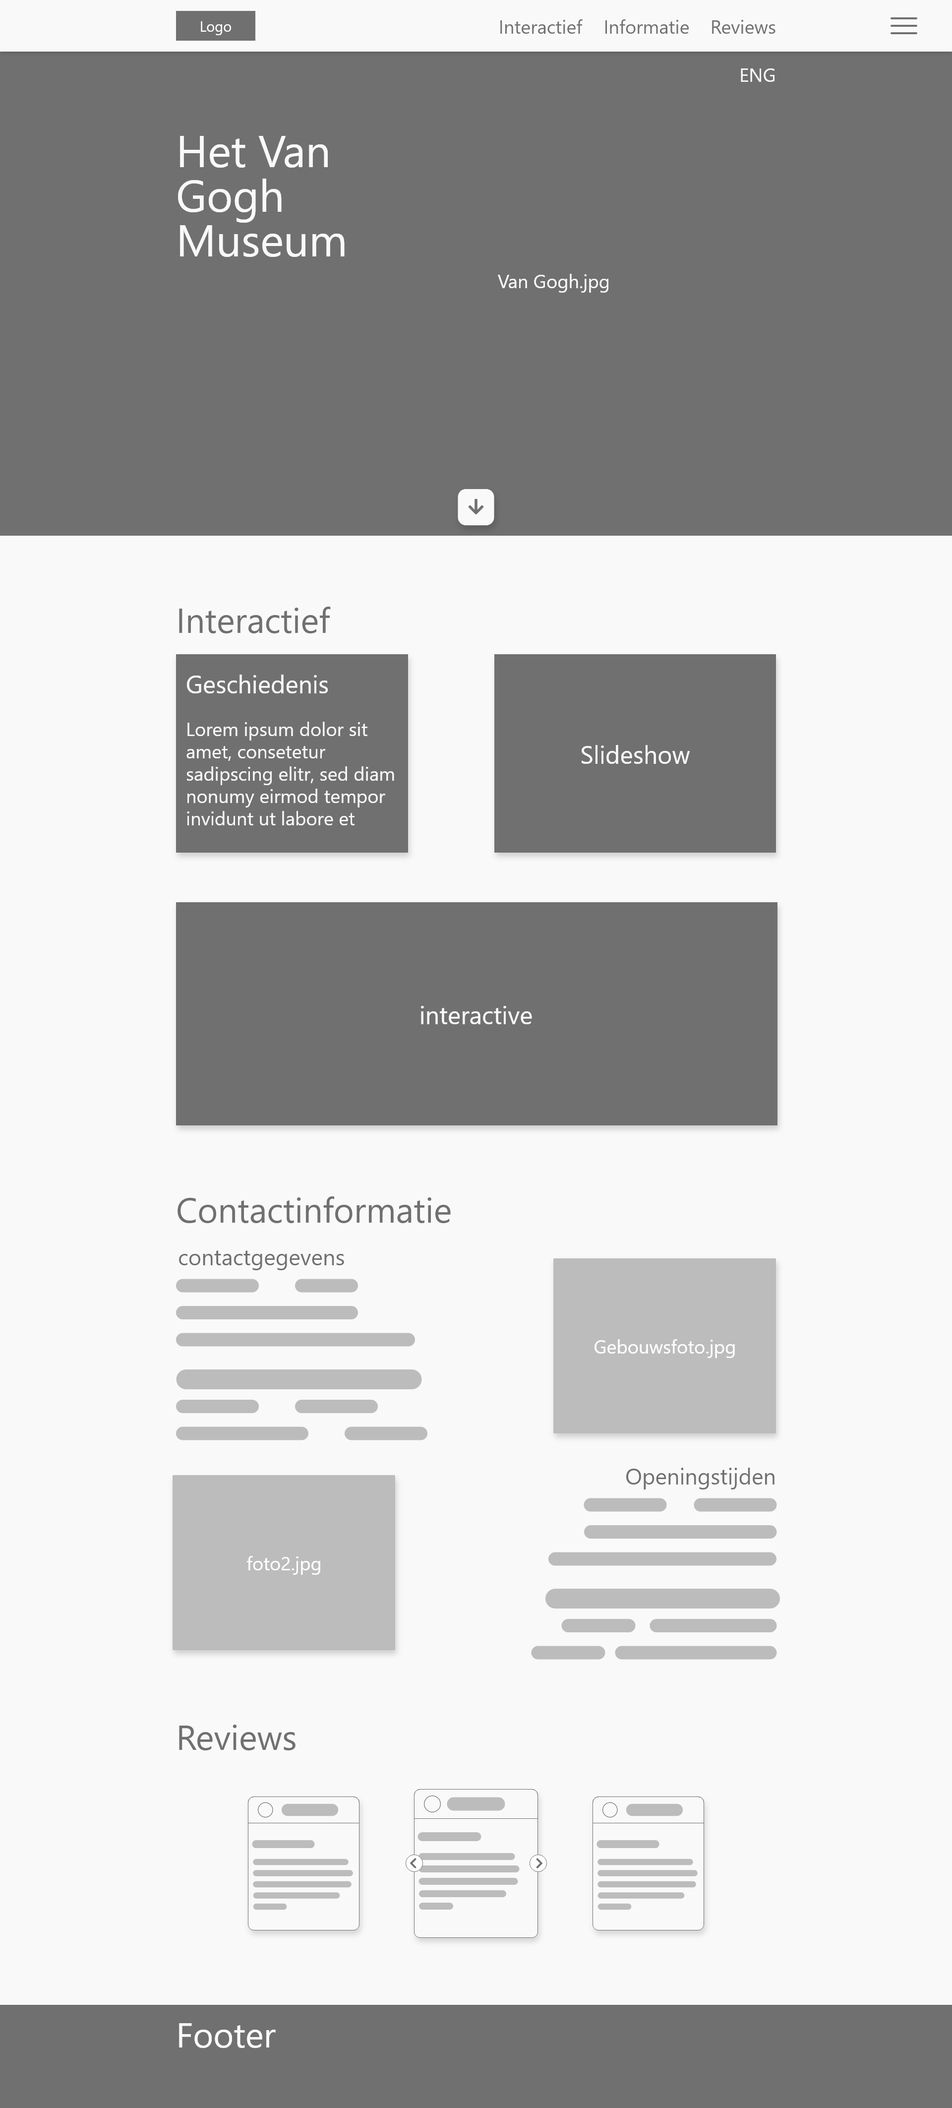
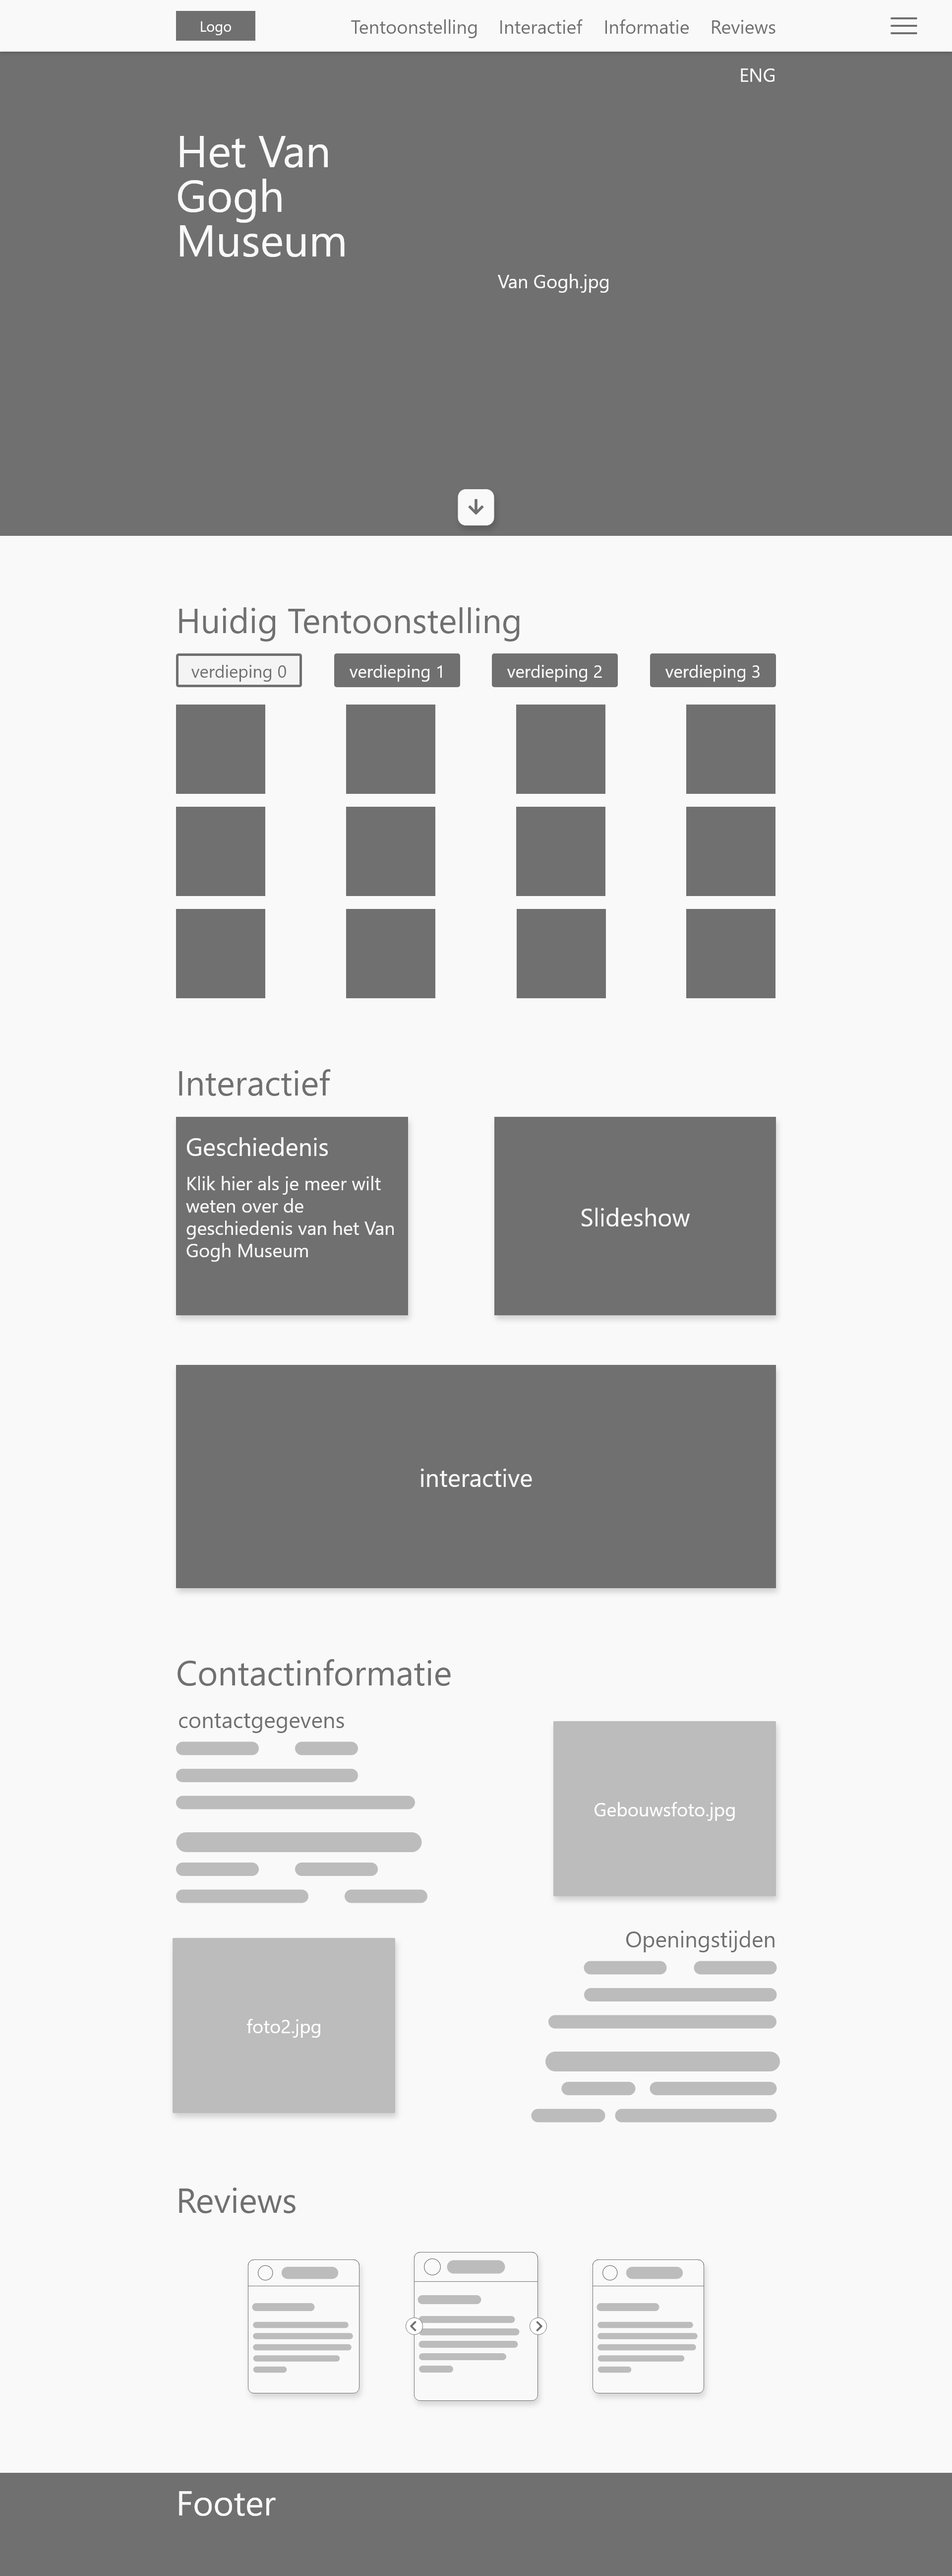
paar schilderijen toegevoegd en de wireframe geupdate

Changed region(s): [[0.0, 0.1864, 1.0, 0.9939], [0.0, 0.0, 1.0, 0.1242]]

diff --git a/structuur/index.html b/structuur/index.html
@@ -31,6 +31,9 @@
         </a>
         <ul class="nav_links" aria-label="Linken">
           <li class="nav_item">
+            <a href="#tentoonstellingAnchor">Tentoonstelling</a>
+          </li>
+          <li class="nav_item">
             <a href="#interactiefAnchor">Interactief</a>
           </li>
           <li class="nav_item">
@@ -54,12 +57,94 @@
         <h1>Het Van Gogh Museum</h1>
       </div>
       <a
-        href="#interactiefAnchor"
+        href="#tentoonstellingAnchor"
         aria-label="Knop naar beneden"
         id="down_btn"
       ></a>
     </header>
     <main>
+      <section
+        id="tentoonstelling"
+        data-section-name="tentoonstelling"
+        style="position: relative;"
+      >
+        <div
+          id="tentoonstellingAnchor"
+          style="position: absolute; top: -100px;"
+        ></div>
+        <h2>Huidig Tentoonstelling</h2>
+        <ul id="tentoonstelling_selection">
+          <li data-tentoonstelling="0">Verdieping 0</li>
+          <li data-tentoonstelling="1">Verdieping 1</li>
+          <li data-tentoonstelling="2">Verdieping 2</li>
+          <li data-tentoonstelling="3">Verdieping 3</li>
+        </ul>
+        <section id="total_tentoonstelling">
+          <section id="stelling_0">
+            <img
+              src="./img/tentoonstelling/verdieping_0/vangoghmuseum-s0273V1962-800.jpg"
+              alt="Vincent van Gogh, door John Peter Russel; 1886"
+            /><img
+              src="./img/tentoonstelling/verdieping_0/vangoghmuseum-s0022V1962-800.jpg"
+              alt="Zelfportret als schilder, door Vincent van Gogh; 1887"
+            /><img
+              src="./img/tentoonstelling/verdieping_0/vangoghmuseum-s0163V1962-800.jpg"
+              alt="Zelfportret met pijp en strohoed, Vincent van Gogh; 1887"
+            /><img
+              src="./img/tentoonstelling/verdieping_0/vangoghmuseum-s0016V1962-800.jpg"
+              alt="Zelfportret met vilthoed, Vincent van Gogh; 1886"
+            /><img
+              src="./img/tentoonstelling/verdieping_0/95d00337f301ff9a4dbaf9e7b2094de3.jpg"
+              alt="Van Goghs palet en verftubes; 1890"
+            /><img
+              src="./img/tentoonstelling/verdieping_0/vangoghmuseum-s0060V1962r-800.jpg"
+              alt="Stilleven met flessen en aardewerk, Vincent van Gogh; 1884-1885"
+            /><img
+              src="./img/tentoonstelling/verdieping_0/vangoghmuseum-s0164V1962-800.jpg"
+              alt="Zelfportret met strohoed, Vincent van Gogh; 1887"
+            /><img
+              src="./img/tentoonstelling/verdieping_0/vangoghmuseum-s0071V1962r-800.jpg"
+              alt="Vogelnesten, Vincent van Gogh; 1885"
+            /><img
+              src="./img/tentoonstelling/verdieping_0/vangoghmuseum-s0068V1962r-800.jpg"
+              alt="Kop van een man, Vincent van Gogh; 1885"
+            />
+          </section>
+          <section id="stelling_1">
+            <img src="" alt="" /><img src="" alt="" /><img src="" alt="" /><img
+              src=""
+              alt=""
+            /><img src="" alt="" /><img src="" alt="" /><img
+              src=""
+              alt=""
+            /><img src="" alt="" /><img src="" alt="" /><img
+              src=""
+              alt=""
+            /><img src="" alt="" /><img src="" alt="" /><img
+              src=""
+              alt=""
+            /><img src="" alt="" /><img src="" alt="" /><img
+              src=""
+              alt=""
+            /><img src="" alt="" /><img src="" alt="" /><img
+              src=""
+              alt=""
+            /><img src="" alt="" />
+          </section>
+          <section id="stelling_2">
+            <img src="" alt="" /><img src="" alt="" /><img src="" alt="" /><img
+              src=""
+              alt=""
+            /><img src="" alt="" /><img src="" alt="" />
+          </section>
+          <section id="stelling_3">
+            <img src="" alt="" /><img src="" alt="" /><img src="" alt="" /><img
+              src=""
+              alt=""
+            /><img src="" alt="" /><img src="" alt="" />
+          </section>
+        </section>
+      </section>
       <section
         id="interactief"
         data-section-name="interactief"

diff --git a/structuur/css/style.css b/structuur/css/style.css
@@ -51,7 +51,7 @@ nav#top_nav {
   margin-left: auto;
 
   font-size: 1.7rem;
-  width: 50%;
+  width: 65%;
   display: flex;
   justify-content: space-between;
   list-style-type: none;
